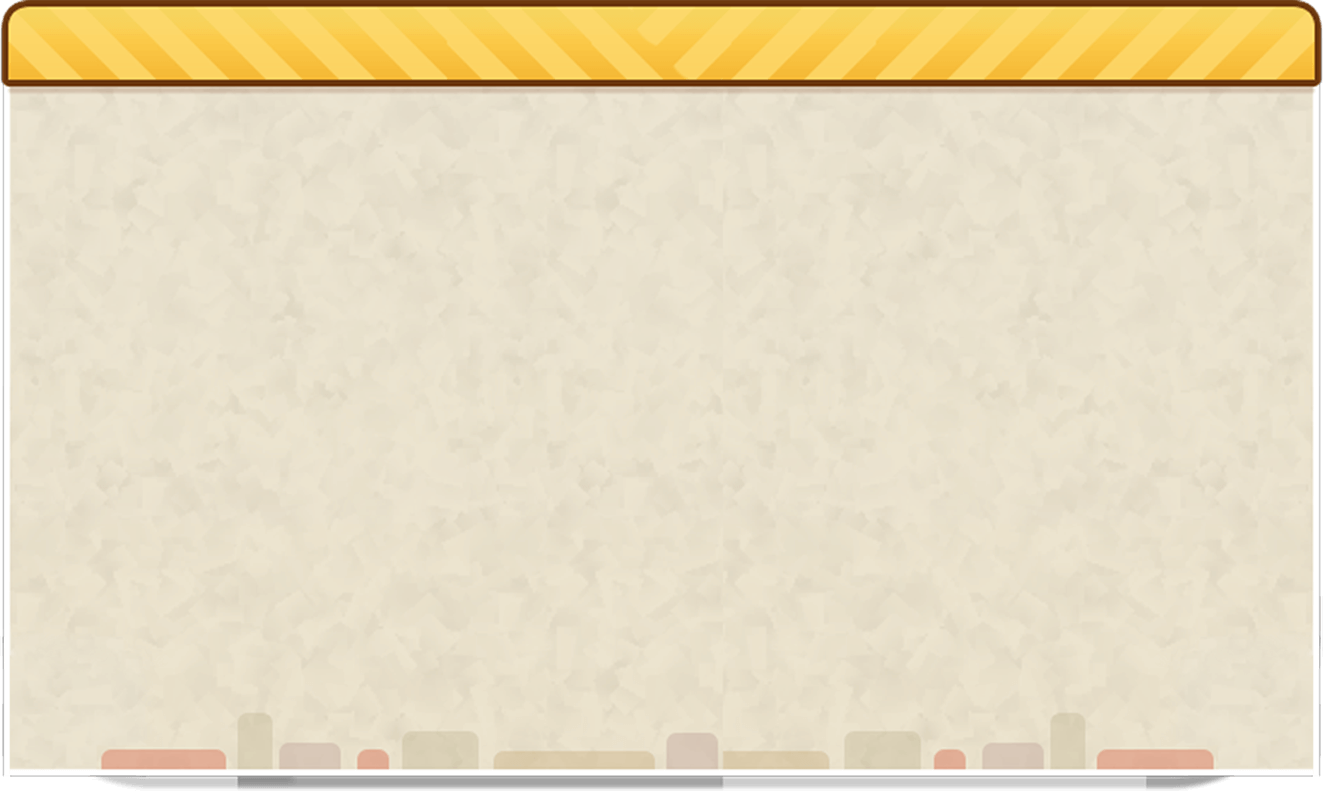
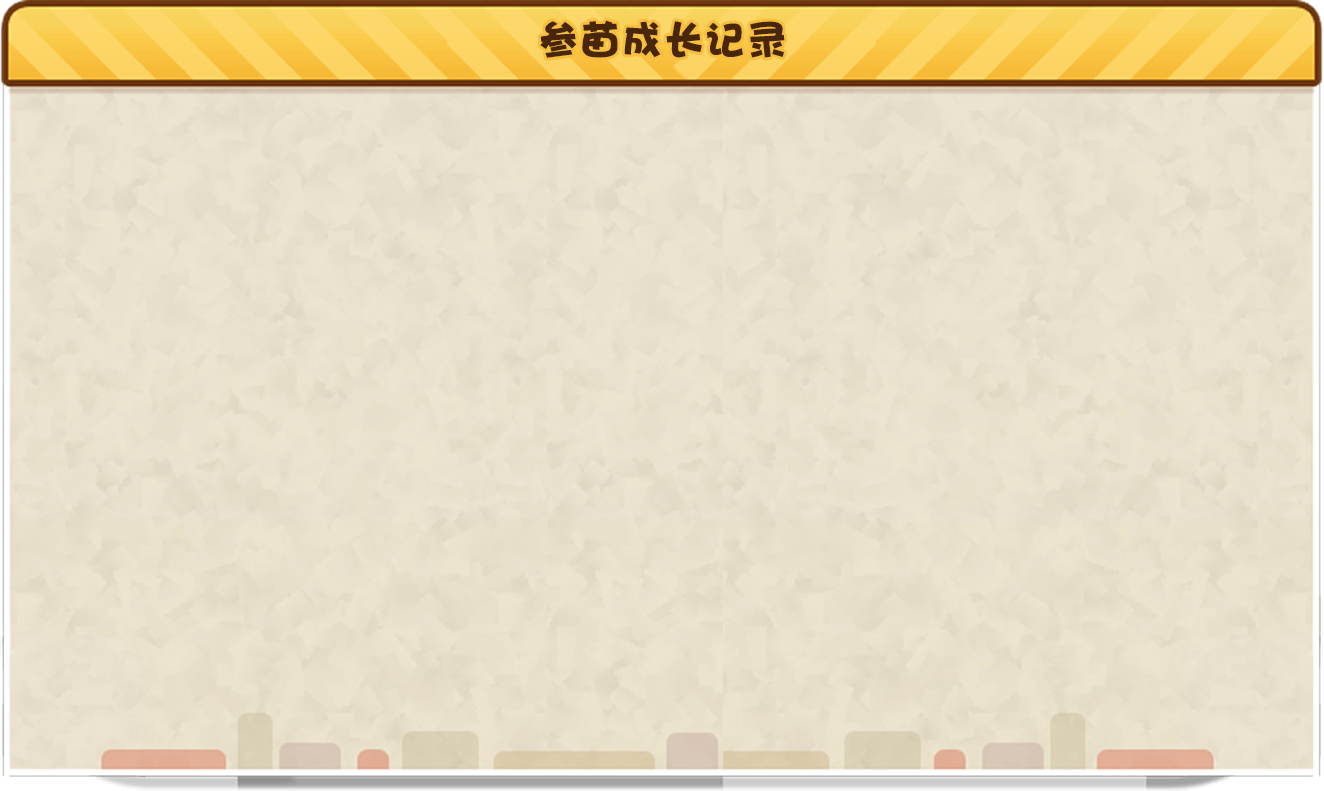
游戏

Changed region(s): [[0.4026, 0.0, 0.6193, 0.091]]

diff --git a/game-work/rst-home.html b/game-work/rst-home.html
@@ -13,8 +13,6 @@
 		<link rel="stylesheet" href="css/style.css" />
 		<script src="js/jquery-1.8.3.min.js"></script>
 		<script src="js/reset.js"></script>
-		<script src="js/modernizr-2.6.2.min.js"></script>
-		<script src="js/polyfills.js"></script>
 	</head>
 	<body ontouchstart="">
 		<div class="home" id="home">
@@ -22,7 +20,15 @@
             <div class="topNotice"><img src="images/rst_notice.png" width="100%"></div>
             <div class="topExit"><a href="http://www.juheweb.com/js/dh/135.html"><img src="images/rst_exit.png" width="100%"></a></div>
             <div class="house1"><img src="images/rts_transaction.png" width="100%"></div>
-            <div class="settings"><img src="images/u52.png" width="100%"></div>
+            <div class="settings">
+	            <img src="images/u52.png" width="100%">
+	            <div class="setBox">
+		            <div class="set set1"><img src="images/rst_team.png" width="100%"></div>
+		            <div class="set set2"><img src="images/rst_register.png" width="100%"></div>
+		            <div class="set set3"><img src="images/rst_activation.png" width="100%"></div>
+		            <div class="set set4"><img src="images/rst_btn_3.png" width="100%"></div>
+		        </div>
+            </div>
 			
 			<!-- 树 -->
 			<div class="trees">
@@ -83,9 +89,49 @@
 			<!-- 瀑布 -->
             <div class="water"><img src="images/rst_water.gif" width="100%" alt=""></div>
 
+
+			<!-- 遮罩层 -->
+			<div class="block" id="block"></div>
+
+
 			<!-- 弹窗-转换中心 -->
 			<div class="popup turn">
 				<div class="reback"><img src="images/a (3).png" width="100%" alt="返回"></div>
+				<div class="title_box">
+						<div class="current">转出</div>
+						<div>转入记录</div>
+						<div>转出记录</div>
+				</div>
+				<div class="xx">
+					<p>1、根据板块的不同，您当日可转总量的40%，30%，20%，10%</p>
+					<p>2、系统自动损耗转换数量的10%为参苗转换损耗数量。</p>
+				</div>
+
+				<div class="formBox">
+					<div class="form">
+						<div class="form-item tar"><img src="images/rst_title_1.png" height="100%"></div>
+						<div class="form-item"><input type="" name="" value="1111" disabled></div>
+					</div>
+					<div class="form">
+						<div class="form-item tar"><img src="images/rst_title_2.png" height="100%" value="23" disabled></div>
+						<div class="form-item"><input type="" name=""></div>
+					</div>
+					<div class="form">
+						<div class="form-item tar"><img src="images/rst_title_3.png" height="100%"></div>
+						<div class="form-item"><input type="" name=""></div>
+					</div>
+					<div class="form">
+						<div class="form-item tar"><img src="images/rst_title_4.png" height="100%"></div>
+						<div class="form-item"><input type="" name=""></div>
+					</div>
+					<div class="form tac">
+						<button><img src="images/rst_confirm_btn.png" width="100%" alt=""></button>
+					</div>
+				</div>
+
+
+
+
 				
 			</div>
 
@@ -100,8 +146,54 @@
 			</div>
 
 			<!-- 弹窗-公告 -->
-			<div class="popup announcement">
+			<div class="popup announcement tac">
 				<div class="reback"><img src="images/a (3).png" width="100%" alt="返回"></div>
+				<b>说明：请会员留意发布的公告</b><br>
+				<table title="测试" cellspacing="1">
+					<tbody>
+					<tr class="gl_top">
+						<th>标题</th>
+						<th>简介</th>
+						<th>发布日期</th>
+						<th>查看详情</th>
+					</tr>
+					<tr class="gl_congter">
+						<td>TG 3月27日 公告</td>
+						<td>TG 3月27日 公告</td>
+						<td>2017.03.27</td>
+						<td><input type="button" value="查看详情"></td>
+					</tr>
+					<tr class="gl_congter1">
+						<td>TG 3月27日 公告</td>
+						<td>TG 3月27日 公告</td>
+						<td>2017.03.27</td>
+						<td><input type="button" value="查看详情"></td>
+					</tr>
+					<tr class="gl_congter">
+						<td>TG 3月27日 公告</td>
+						<td>TG 3月27日 公告</td>
+						<td>2017.03.27</td>
+						<td><input type="button" value="查看详情"></td>
+					</tr>
+					 <tr class="gl_congter1">
+						<td>TG 3月27日 公告</td>
+						<td>TG 3月27日 公告</td>
+						<td>2017.03.27</td>
+						<td><input type="button" value="查看详情"></td>
+					</tr>
+					<tr class="gl_congter">
+						<td>TG 3月27日 公告</td>
+						<td>TG 3月27日 公告</td>
+						<td>2017.03.27</td>
+						<td><input type="button" value="查看详情"></td>
+					</tr>
+					<tr class="gl_congter1">
+						<td>TG 3月27日 公告</td>
+						<td>TG 3月27日 公告</td>
+						<td>2017.03.27</td>
+						<td><input type="button" value="查看详情"></td>
+					</tr>  
+				</tbody></table>
 			</div>
 
 
@@ -113,68 +205,50 @@
 					ch = document.documentElement.clientHeight,
 					scrH = document.documentElement.scrollHeight,
 					home = document.getElementById('home');
-
-				console.log('ch = ' + ch);
-				
+					block = document.getElementById('block');
                 home.style.height = ch + 'px';
+                block.style.width = cw + 'px';
+                block.style.height = ch + 'px';
+
+                // 展开设置
+                $('.settings').on('click', function() {
+                	$('.setBox').slideToggle();
+                });
 
                 // 弹出 转换中心
                 $('.house1').on('click', function(e) {
                 	e.stopPropagation('');
+                	$('#block').show();
                 	$('.turn').fadeIn();
                 });
 
                 // 弹出 参苗成长记录
                 $('.house2').on('click', function(e) {
                 	e.stopPropagation('');
+                	$('#block').show();
                 	$('.record').fadeIn();
                 });
 
                 // 弹出 原点复投
                 $('.reset').on('click', function(e) {
                 	e.stopPropagation('');
+                	$('#block').show();
                 	$('.originRet').fadeIn();
                 });
 
                 // 弹出 公告
                 $('.topNotice').on('click', function(e) {
                 	e.stopPropagation('');
-                	$('.originRet').fadeIn();
+                	$('#block').show();
+                	$('.announcement').fadeIn();
                 });
 
                 $('.reback').on('click', function(e) {
                 	e.stopPropagation('');
                 	$(this).parent('div').fadeOut();
+                	$('#block').hide();
                 });
 			}
-
-
-
-			// 扇形 导航栏
-			(function(){
-				var button = document.getElementById('cn-button'),
-			    wrapper = document.getElementById('cn-wrapper');
-
-			    //open and close menu when the button is clicked
-				var open = false;
-				button.addEventListener('click', handler, false);
-
-				function handler(){
-				  if(!open){
-				    this.innerHTML = "Close";
-				    classie.add(wrapper, 'opened-nav');
-				  }
-				  else{
-				    this.innerHTML = "Menu";
-					classie.remove(wrapper, 'opened-nav');
-				  }
-				  open = !open;
-				}
-				function closeWrapper(){
-					classie.remove(wrapper, 'opened-nav');
-				}
-
-			})();
 		</script>
 	</body>
 </html>

diff --git a/game-work/css/style.css b/game-work/css/style.css
@@ -10,6 +10,13 @@
 .home .house1{position: absolute;left: 0%;top: 35.5%;width: 19.3%;height: 18.4%;}
 .home .house1:hover{transform: scale(1.1);-webkit-transform: scale(1.1);-moz-transform: scale(1.1);-o-transform: scale(1.1);}
 .home .settings{position: absolute;bottom: 4.5%;left: 2.9%;width: 4.5%;height: 6.9%;}
+.home .settings .setBox{display: none;}
+.home .settings .set{position: absolute;left: 0;top: 0;width: 85%;height: 85%;}
+.home .settings .set1{margin-top: -153%;left: -27%;}
+.home .settings .set2{margin-top: -120%;left: 83%;width: 70%;}
+.home .settings .set3{margin-top: -60%;left: 153%;}
+.home .settings .set4{margin-top: 40%;left: 185%;}
+
 .home .fence{position: absolute;left: 17%;top: 32%;width: 55.6%;height: 40.2%;}
 .home .house2{position: absolute;left: 64.9%;top: 23.3%;width: 27.9%;height: 18.4%;}
 .home .house2:hover{transform: scale(1.1);-webkit-transform: scale(1.1);-moz-transform: scale(1.1);-o-transform: scale(1.1);}
@@ -40,11 +47,25 @@
 .home .water{position: absolute;right: 0%;top: 25%;width: 11.3%;height: 10.8%;}
 
 .home .popup{display: none;position: absolute;left: 50%;top: 50%;transform: translate(-50%, -50%);-webkit-transform: translate(-50%, -50%);-moz-transform: translate(-50%, -50%);-o-transform: translate(-50%, -50%);}
-.home .turn{width: 76.61%;height: 80.74%;background: url(../images/aaac.png) 0 0 no-repeat;-webkit-background-size: 100% auto;background-size: 100% auto;}
 .home .popup .reback{position: absolute;top: 1.8%;left: 1.5%;width: 5%;}
+
+.home .turn{width: 76.61%;height: 80.74%;background: url(../images/aaac.png) 0 0 no-repeat;-webkit-background-size: 100% auto;background-size: 100% auto;padding-top: 7%;-webkit-box-sizing: border-box;-moz-box-sizing: border-box;box-sizing: border-box;}
+.home .turn .title_box{margin: 0 auto;display: box;display: -webkit-box;-moz-display: box;box-pack: justify;-webkit-box-pack: justify;-moz-box-pack: justify;box-align: center;-webkit-box-align: center;-moz-box-align: center;width: 80%;height: 11%;}
+.home .turn .title_box div{width: 20%;height: 100%;;background: url(../images/ac.png) 0 0 no-repeat;background-size: 100% auto;text-align: center;font-size: 70%;}
+.home .turn .xx{margin: 0 auto;padding: 1% 1.5%;width: 90%;background: #fff;border-radius: 5px;font-size: 70%;-webkit-box-sizing: border-box;-moz-box-sizing: border-box;box-sizing: border-box;}
+.home .turn .formBox{height: 40%;}
+.home .turn .form{margin-top: 2%;display: box;display: -webkit-box;display: -moz-box;display: -o-box;box-pack: center;-webkit-box-pack: center;-moz-box-pack: center;-o-box-pack: center;box-align: center;-webkit-box-align: center;-moz-box-align: center;-o-box-align: center;height: 18%;}
+.home .turn .form:last-child{margin-top: 4%;}
+.home .turn .form-item{box-flex: 1;-webkit-box-flex: 1;-moz-box-flex: 1;-o-box-flex: 1;width: 50%;height: 80%;}
+.home .turn .form-item:last-child{height: 150%;}
+.home .turn .form-item input{margin-left: 4%;background: url(../images/rst_inputbj.png) 0 0 no-repeat;-webkit-background-size: auto 100%;background-size: auto 100%;border: none;height: 90%;}
+.home .turn .form button{background: none;border: none;width: 45%;}
 
 .home .record{width: 68.96%;height: 73.2%;background: url(../images/bj.png) 0 0 no-repeat;-webkit-background-size: 100% auto;background-size: 100% auto;}
 
-.home .originRet{width: 49.5%;height: 52.6%;background: url(../images/ydft.png) 0 0 no-repeat;-webkit-background-size: 100% auto;background-size: 100% auto;}
+.home .originRet{width: 68.5%;height: 72.6%;background: url(../images/ydft.png) 0 0 no-repeat;-webkit-background-size: 100% auto;background-size: 100% auto;}
 
-.home .announcement{width: 26%;height: 38.15%;background: url(../images/gg_img_02.png) 0 0 no-repeat;-webkit-background-size: 100% auto;background-size: 100% auto;}
+.home .announcement{padding-top: 3%;width: 47%;height: 69%;background: url(../images/gg_img_02.png) 0 0 no-repeat;-webkit-background-size: 100% auto;background-size: 100% auto;-webkit-box-sizing: border-box;-moz-box-sizing: border-box;box-sizing: border-box;}
+.home .announcement b{padding: .7% 1%;border: #6d380e 2px solid;text-align: center;color: #6d380e;font-size: 35%;border-radius: 3px;}
+
+.block{position: absolute;left: 0;top: 0;z-index: 0;display: none;background: rgba(0,0,0,.3);}

diff --git a/game-work/css/standard.css b/game-work/css/standard.css
@@ -2110,13 +2110,13 @@ a {
 .colorf {
   color: #fff; }
 
-.al {
+.tal {
   text-align: left; }
 
-.ac {
+.tac {
   text-align: center; }
 
-.ar {
+.tar {
   text-align: right; }
 
 body {
